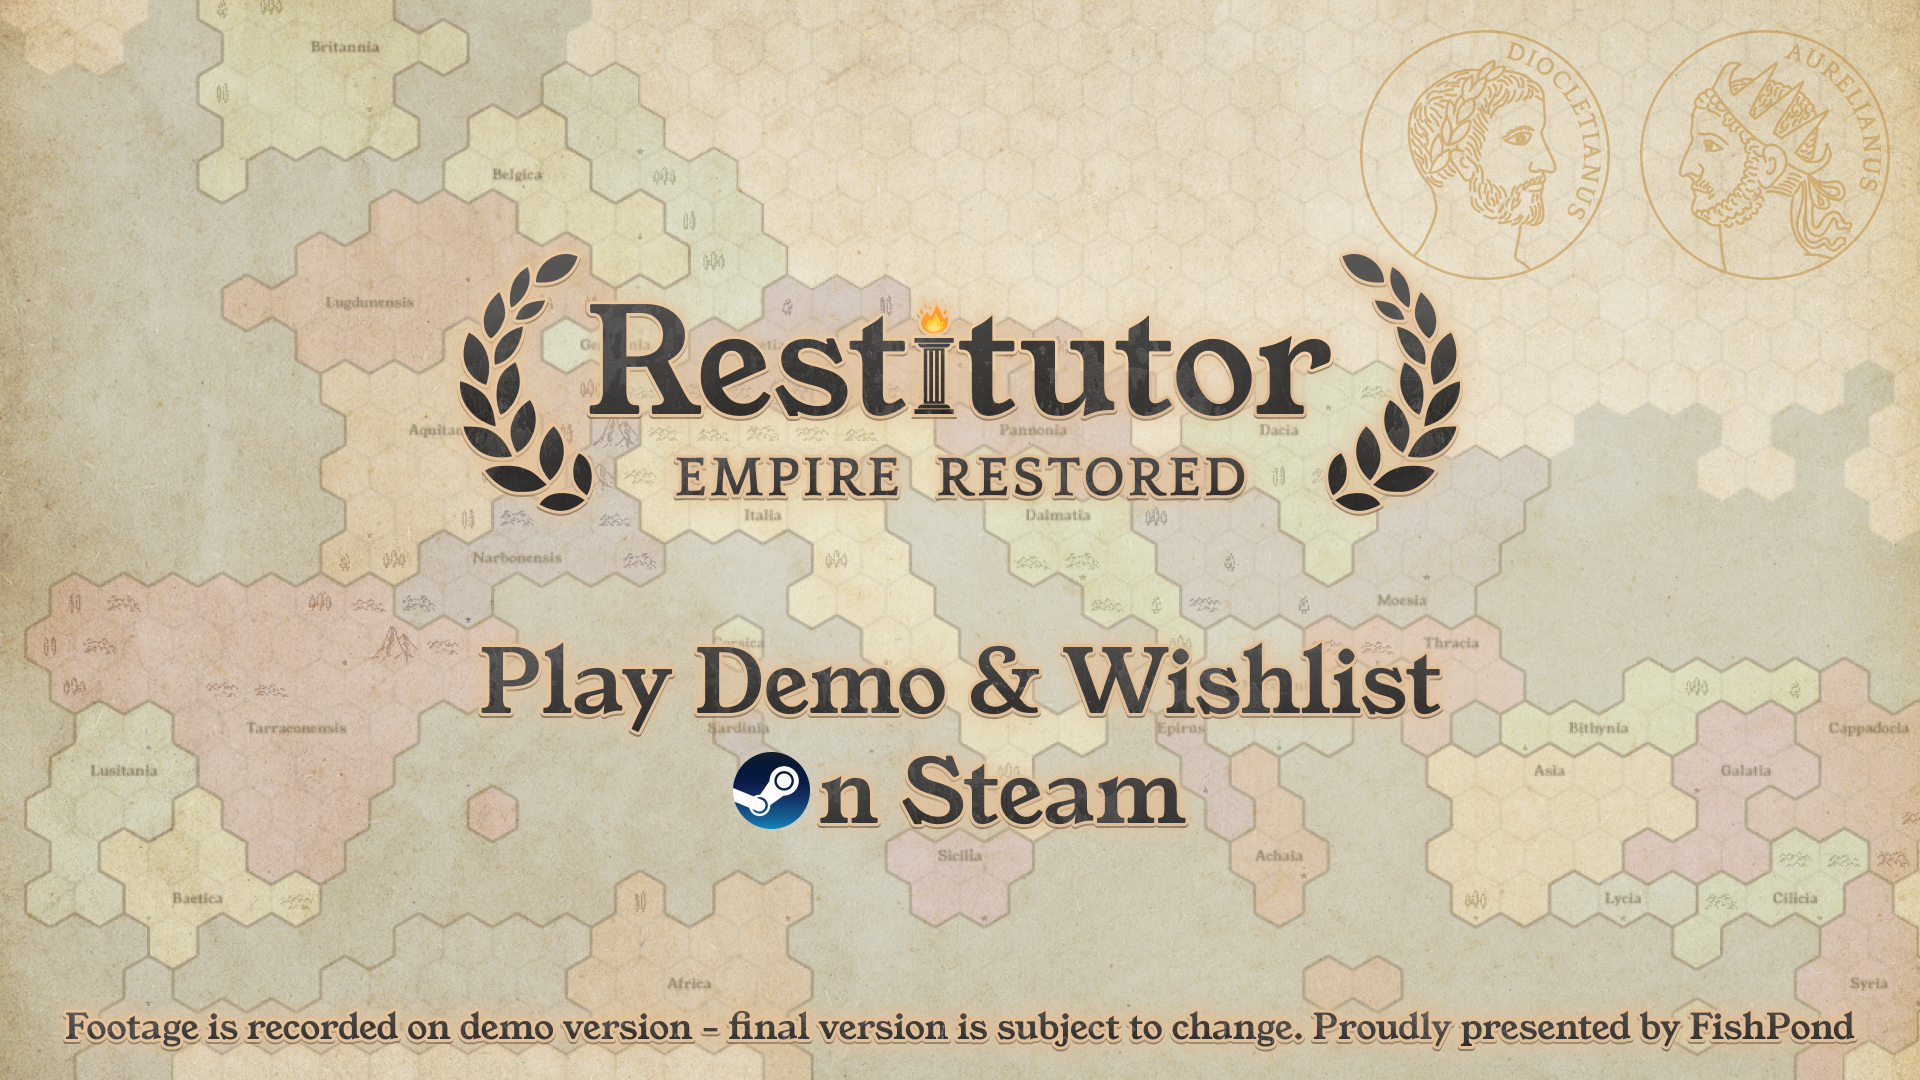
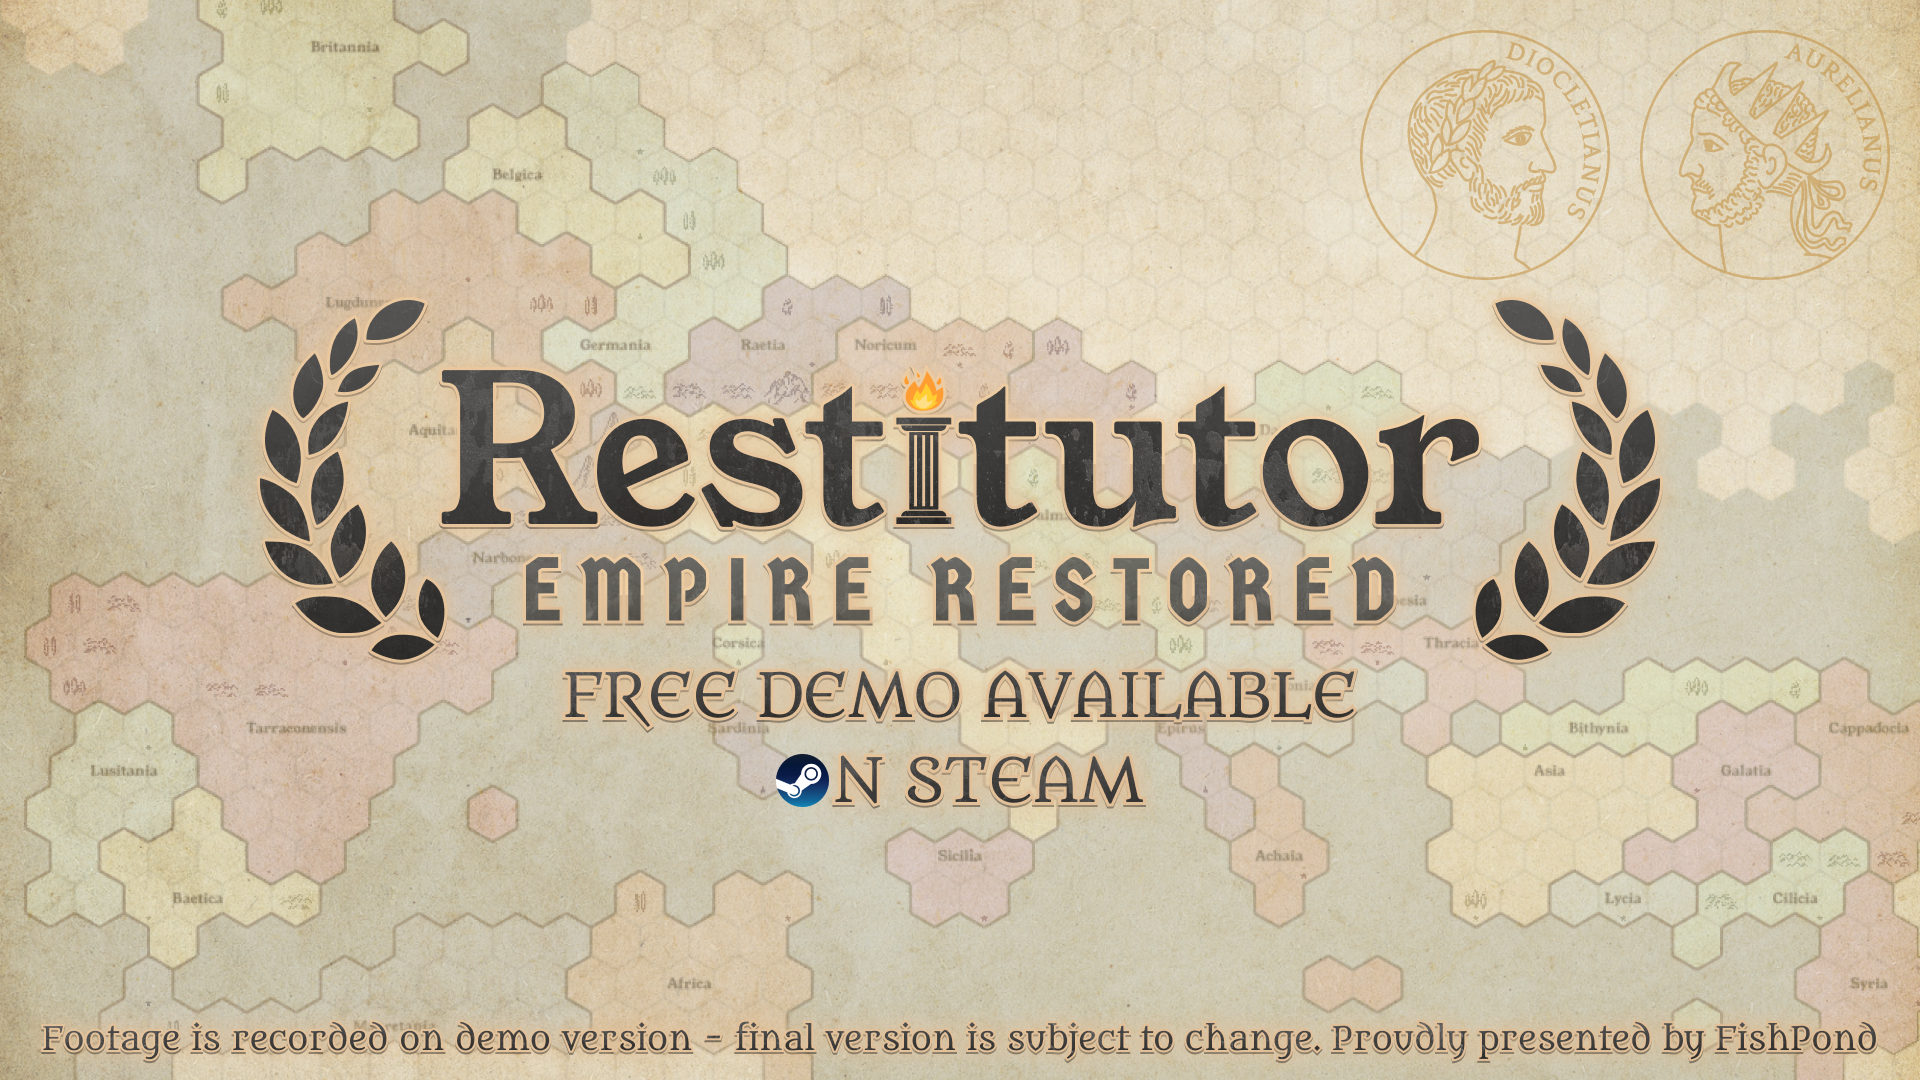
[build]

Changed region(s): [[0.125, 0.2139, 0.875, 0.7639], [0.0, 0.9167, 1.0, 0.9778]]

diff --git a/packages/client/src/languages/en.ts b/packages/client/src/languages/en.ts
@@ -571,7 +571,8 @@ export const EN = {
    MakeCore: "Make Core",
    MakeCoreCost: "Make Core Cost",
    MakeDurocortorumOurCore: "Make Durocortorum our core",
-   MakeDurocortorumOurCoreDesc: "A newly conquered tile is not our core yet - non-core tiles contribute to overextension, which negatively affects our province. We need to spend <i>administrative</i> points to integrate the tile and make it our core - follow the on-screen instructions.",
+   MakeDurocortorumOurCoreDesc:
+      "A newly annexed tile is not our core yet - non-core tiles pay less taxes and require higher governing cost. When our governing cost exceeds capacity, overextension occurs, which negatively affects our province. We need to spend <i>administrative</i> points to integrate the tile and make it our core - follow the on-screen instructions.",
    MakeGovernorGeneral: "Make Governor General",
    MakeWarSpeech: "Make War Speech",
    Make$1OurCoreTile: "Make <i>$1</i> our core tile.",
@@ -823,7 +824,7 @@ export const EN = {
    Rebirth: "Rebirth",
    RebirthAndStartANewRun: "Rebirth and start a new run",
    RebirthAndStartANewRunDesc:
-      "Restitutor is an <i>incremental</i> grand strategy game - each run grants permanent bonuses that allow the next run to progress faster and push further. This system is called <i>rebirth</i>.<br>When we rebirth, the tiles we <i>acquired and cored</i> are converted into legacy points - they carry over into future runs and grant powerful bonuses.<br>We may choose a different province for the next run - follow the on-screen instructions to rebirth.<br>After rebirth, the tutorial will be complete. With our newly gained knowledge, we are ready to shape our own strategy and forge our own path - the course of history is now ours to decide.",
+      "Restitutor is an <i>incremental</i> grand strategy game - each run grants permanent bonuses that allow the next run to progress faster and push further. This system is called <i>rebirth</i>.<br>When we rebirth, the tiles we <i>annexed and cored</i> are converted into legacy points - they carry over into future runs and grant powerful bonuses.<br>We may choose a different province for the next run - follow the on-screen instructions to rebirth.<br>After rebirth, the tutorial will be complete. With our newly gained knowledge, we are ready to shape our own strategy and forge our own path - the course of history is now ours to decide.",
    RebirthEndsCurrentRunTooltip: "Rebirth will end our current run, and grant us 1 legacy point for each tile that we've acquired and cored.",
    ReceivedAGiftFrom$1: "Received a gift from $1",
    Reconquista: "Reconquista",

diff --git a/packages/client/src/languages/ru.ts b/packages/client/src/languages/ru.ts
@@ -571,7 +571,8 @@ export const RU = {
    MakeCore: "Сделать ядром",
    MakeCoreCost: "Стоимость создания ядра",
    MakeDurocortorumOurCore: "Сделать Дурокорторум нашим ядром",
-   MakeDurocortorumOurCoreDesc: "Недавно завоёванное владение ещё не является нашим ядром — владения без ядра способствуют сверхнагрузке, что отрицательно сказывается на провинции. Нам нужно потратить <i>административные</i> очки для интеграции владения и сделать его нашим ядром — следуйте инструкциям на экране.",
+   MakeDurocortorumOurCoreDesc:
+      "Недавно аннексированное владение ещё не является нашим ядром — владения без ядра платят меньше налогов и требуют более высоких затрат на управление. Когда наши затраты на управление превышают возможности, возникает сверхнагрузка, что отрицательно сказывается на нашей провинции. Нам нужно потратить <i>административные</i> очки для интеграции владения и сделать его нашим ядром — следуйте инструкциям на экране.",
    MakeGovernorGeneral: "Сделать наместника генералом",
    MakeWarSpeech: "Произнести военную речь",
    Make$1OurCoreTile: "Сделать <i>$1</i> нашим ядром.",
@@ -823,7 +824,7 @@ export const RU = {
    Rebirth: "Возрождение",
    RebirthAndStartANewRun: "Возродиться и начать новый забег",
    RebirthAndStartANewRunDesc:
-      "Restitutor — это <i>инкрементальная</i> глобальная стратегия — каждый забег даёт постоянные бонусы, позволяющие следующему забегу продвигаться быстрее и дальше. Эта система называется <i>возрождением</i>.<br>Когда мы возрождаемся, владения, которые мы <i>приобрели и превратили в ядро</i>, конвертируются в очки наследия — они переносятся в будущие забеги и дают мощные бонусы.<br>Мы можем выбрать другую провинцию для следующего забега — следуйте инструкциям на экране для возрождения.<br>После возрождения обучение будет завершено. С нашими новыми знаниями мы готовы формировать свою стратегию и прокладывать свой путь — теперь ход истории в наших руках.",
+      "Restitutor — это <i>инкрементальная</i> глобальная стратегия — каждый забег даёт постоянные бонусы, позволяющие следующему забегу продвигаться быстрее и дальше. Эта система называется <i>возрождением</i>.<br>Когда мы возрождаемся, владения, которые мы <i>аннексировали и превратили в ядро</i>, конвертируются в очки наследия — они переносятся в будущие забеги и дают мощные бонусы.<br>Мы можем выбрать другую провинцию для следующего забега — следуйте инструкциям на экране для возрождения.<br>После возрождения обучение будет завершено. С нашими новыми знаниями мы готовы формировать свою стратегию и прокладывать свой путь — теперь ход истории в наших руках.",
    RebirthEndsCurrentRunTooltip: "Возрождение завершит наш текущий забег и даст 1 очко наследия за каждое приобретённое и превращённое в ядро владение.",
    ReceivedAGiftFrom$1: "Получен дар от $1",
    Reconquista: "Реконкиста",

diff --git a/packages/client/src/languages/zh-CN.ts b/packages/client/src/languages/zh-CN.ts
@@ -565,7 +565,7 @@ export const ZH_CN = {
    MakeCore: "核心化",
    MakeCoreCost: "核心化花费",
    MakeDurocortorumOurCore: "将杜罗科托鲁姆核心化",
-   MakeDurocortorumOurCoreDesc: "新征服的地块尚未成为我们的核心——非核心地块会增加过度扩张，对我们的行省产生负面影响。我们需要花费<i>行政点数</i>核心化该地块——请按屏幕提示操作。",
+   MakeDurocortorumOurCoreDesc: "新吞并的地块尚未成为我们的核心——非核心地块税收更低且需要更高的治理成本。当治理成本超过容量时，就会产生过度扩张，对我们的行省产生负面影响。我们需要花费<i>行政点数</i>整合该地块并将其核心化——请按屏幕提示操作。",
    MakeGovernorGeneral: "任命总督为将军",
    MakeWarSpeech: "发表战争演说",
    Make$1OurCoreTile: "将 <i>$1</i> 核心化为我们的核心地块。",
@@ -816,7 +816,7 @@ export const ZH_CN = {
    Rebirth: "重生",
    RebirthAndStartANewRun: "重生并开始新一轮",
    RebirthAndStartANewRunDesc:
-      "光复者是一款<i>增量</i>大战略游戏——每一轮都会授予永久加成，使下一轮推进更快、走得更远。这一系统称为<i>重生</i>。<br>重生时，我们<i>获得并核心化</i>的地块将转化为传承点数——它们会带入未来各轮并授予强大加成。<br>我们可为下一轮选择不同行省——请按屏幕提示进行重生。<br>重生后，教程将告完成。凭借新获知的知识，我们已准备好制定自己的策略、开辟自己的道路——历史的走向现由我们决定。",
+      "光复者是一款<i>增量</i>大战略游戏——每一轮都会授予永久加成，使下一轮推进更快、走得更远。这一系统称为<i>重生</i>。<br>重生时，我们<i>吞并并核心化</i>的地块将转化为传承点数——它们会带入未来各轮并授予强大加成。<br>我们可为下一轮选择不同行省——请按屏幕提示进行重生。<br>重生后，教程将告完成。凭借新获知的知识，我们已准备好制定自己的策略、开辟自己的道路——历史的走向现由我们决定。",
    RebirthEndsCurrentRunTooltip: "重生将结束我们当前这一轮，并为每个已获得并核心化的地块授予 1 传承点数。",
    ReceivedAGiftFrom$1: "收到来自 $1 的礼物",
    Reconquista: "收复失地",